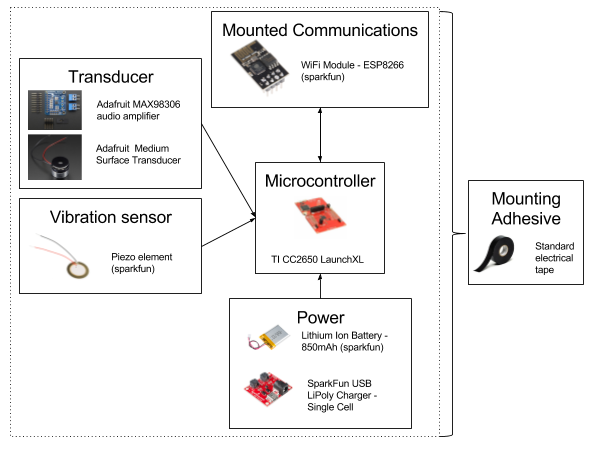
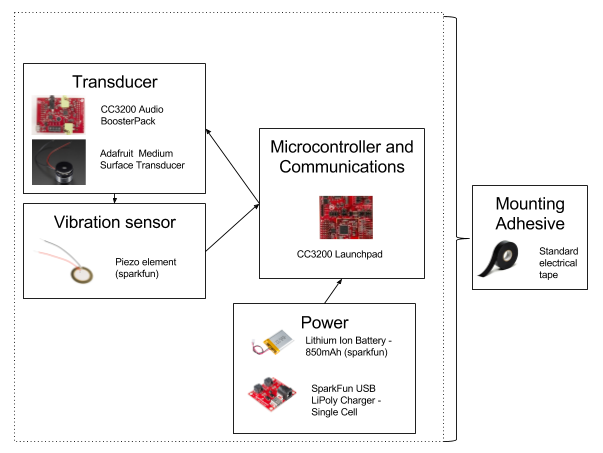
added updated system diagrams
decided to do this in separate page rather than index.html because of
problems spacing images

Changed region(s): [[0.0299, 0.0, 0.9851, 0.9272], [0.2388, 0.0, 0.2985, 0.0309], [0.0597, 0.0, 0.1194, 0.0309]]

diff --git a/index.html b/index.html
@@ -36,6 +36,7 @@
 							<li><a href="#second">Competitors</a></li>
 							<li><a href="#requirements">Requirements</a></li>
 							<li><a href="#components">Components</a></li>
+							<!-- <li><a href="#architecture">Architecture</a></li> -->
 							<li><a href="#team-members">Team Members</a></li>
 							<li><a href="#documentation">Documentation</a></li>
 						</ul>
@@ -146,7 +147,7 @@
 								<header class="major">
 									<h2>Components</h2>
 								</header>
-								<p>At a high level, the system will make small vibrations in an object, and then read back these vibrations.  As shown in <a href="https://www.youtube.com/watch?v=XgxXi6w8IQc">other projects</a>, an object will play these vibrations differently when it is touched or not touched; our team believes this principle can be applied to containers with fluids inside of them.  The containers will play the vibrations differently when they are full, when they are empty, and when they are at different levels in between.  Our system will make the vibrations, read them, send them to a signal processing unit to determine fill level of the container, and notify users when the container is almost empty.  The components necessary to accomplish this task are shown below.</p>
+								<p>At a high level, the system will make small vibrations in an object, and then read back these vibrations.  As shown in <a href="https://www.youtube.com/watch?v=XgxXi6w8IQc">other projects</a>, an object will play these vibrations differently when it is touched or not touched; our team believes this principle can be applied to containers with fluids inside of them.  The containers will play the vibrations differently when they are full, when they are empty, and when they are at different levels in between.  Our system will make the vibrations, read them, send them to a signal processing unit to determine fill level of the container, and notify users when the container is almost empty.  The components necessary to accomplish this task are shown below.  See how they all fit together <a href="systemDiagram.html">here</a>.</p>
 								<ul class="features">
 									<li>
 										<span class="image"><img src="images/transducer.png" alt="" /></span>
@@ -156,7 +157,7 @@
 									<li>
 										<span class="image"><img src="images/lm386.png" alt="" /></span>
 										<h3>LM386 Audio Amplifier Module</h3>
-										<p>In order to ensure that the transducer's sounds are loud enough to be read by the piezo sensor, our team is using this audio amplifier.</p>
+										<p>While prototyping with the Raspberry pi, our team is using this audio amplifier to ensure that the transducer's sounds are loud enough to be read by the piezo sensor.</p>
 									</li>
 									<li>
 										<span class="image"><img src="images/piezo.jpg" alt="" /></span>
@@ -194,12 +195,20 @@
 										<p>Our team plans to use a PRT-10217 charging circuit to recharge the battery of the mounted component.</p>
 									</li>
 								</ul>
-								<!--<footer class="major">
-									<ul class="actions">
-										<li><a href="systemDiagram.html" class="button">See How They Go Together</a></li>
-									</ul>
-								</footer>-->
 							</section>
+
+							<!-- <section id="architecture" class="main special">
+								<header class="major">
+									<h2>Architecture</h2>
+									<ul class="features">
+										<li>
+											<span class="image"><img src="images/systemdiagram.png" alt=""/></span>
+											<h3>Planned System Architecture</h3>
+											<p>View our prototyping system architecture <a href="systemDiagram.html">here</a>.</p>
+										</li>
+									</ul>
+								</header>
+							</section> -->
 
 						<!-- Team Members --> 
 							<section id="team-members" class="main special">

diff --git a/systemDiagram.html b/systemDiagram.html
@@ -22,12 +22,16 @@
 
 				<!-- Header -->
 					<header id="header" class="alt">
-						<h2>System Diagram</h2>
+						<h2>Proposed System Artchitecture</h2>
 						<span class="image"><img src="images/systemdescription.png" alt=""/></span>
+					</header>
+					<header id="header" class="alt">
+						<h2>Prototyping System Artchitecture</h2>
+						<span class="image"><img src="images/architectureprototype.png" alt=""/></span>
 					</header>
 					<footer class="major">
 						<ul class="actions">
-							<li><a href="index.html#components" class="button special">Back</a></li>
+							<li><a href="index.html#architecture" class="button special">Back</a></li>
 						</ul>
 					</footer>
 			</div>
